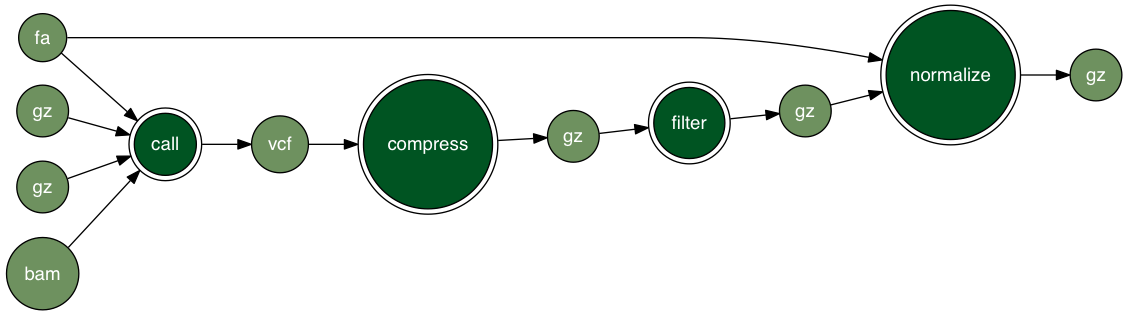
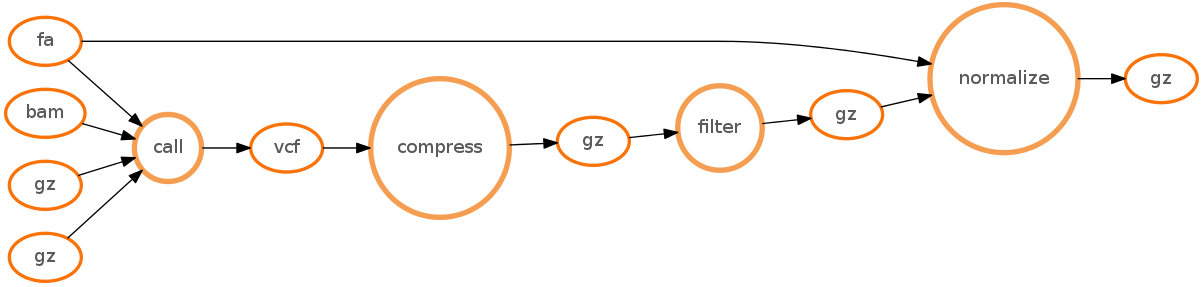
Updated to the redesign.

Changed region(s): [[0.0, 0.0, 1.0, 1.0]]

diff --git a/index.html b/index.html
@@ -5,62 +5,44 @@ group: "navigation"
 order: 1
 ---
 
-<div style="margin: 0px auto; margin-top: 40px; width:1050px; ">
-        <div style="font-size:32px;text-align:left;margin: 10px 0px 30px 0px; float:left; width:455px">          
-          <div style="color:#005422;">
-            
-            A bioinformatics tool and pipeline launcher
-          </div>
-          <div class="description" style="margin-top: 10px;font-size:16px; color:#6e915f">gkno opens the world of complex bioinformatic analysis to people of all level of computational expertise
-          </div>
-        </div>
-        <div style="float:right">
-          <video id="MY_VIDEO_1" class="video-js vjs-default-skin " style="margin: 0 auto;width:554px;" controls
-            preload="auto" width="554" height="312" poster="public/images/animation_still_white_bg_small.png"
-            data-setup="{}">
-            <source src="https://s3.amazonaws.com/iobio/iobio-01-v1.mp4" type='video/mp4'>
-            <p class="vjs-no-js">To view this video please enable JavaScript, and consider upgrading to a web browser that <a href="http://videojs.com/html5-video-support/" target="_blank">supports HTML5 video</a></p>
-          </video>
-        </div>
-        
-        <div style="text-align:center;width: 450px; float:left">
-          <div style="margin-top:40px; ">
-            
-            <link href="http://cdn-images.mailchimp.com/embedcode/classic-081711.css" rel="stylesheet" type="text/css">
-            <style type="text/css">
-              #mc_embed_signup{background:#fff; clear:left; font:14px Helvetica,Arial,sans-serif; }
-            
-            </style>
-            <div id="mc_embed_signup">
-            <form action="http://iobio.us9.list-manage.com/subscribe/post?u=ddbe7be3d1ca18356bf5c0404&amp;id=ace369fbec" method="post" id="mc-embedded-subscribe-form" name="mc-embedded-subscribe-form" class="validate" target="_blank" novalidate style="padding: 0px">
-                <div id="mc_embed_signup_scroll">
-              <div style="font-size: 14px; color: rgb(110,110,110);margin-bottom: 4px">
-                
-              </div>
-            <div class="mc-field-group" style="width:100%; margin:0px">
-              <label for="mce-EMAIL" style="color:rgb(150,150,150">Sign up to hear about new apps and when you can build your own </label>
-              <input type="email" value="" name="EMAIL" class="required email" id="mce-EMAIL">
-            </div>
-              <div id="mce-responses" class="clear">
-                <div class="response" id="mce-error-response" style="display:none"></div>
-                <div class="response" id="mce-success-response" style="display:none"></div>
-              </div>    
-                <div style="position: absolute; left: -5000px;">
-                  <input type="text" name="b_ddbe7be3d1ca18356bf5c0404_ace369fbec" tabindex="-1" value=""></div>
-                  <div class="clear" style=""><input type="submit" value="Subscribe" name="subscribe" id="mc-embedded-subscribe" class="button" style="background: #b70e11"></div>
-                </div>
-            </form>
-            </div>
-            <script type='text/javascript' src='http://s3.amazonaws.com/downloads.mailchimp.com/js/mc-validate.js'></script><script type='text/javascript'>(function($) {window.fnames = new Array(); window.ftypes = new Array();fnames[0]='EMAIL';ftypes[0]='email';fnames[1]='FNAME';ftypes[1]='text';fnames[2]='LNAME';ftypes[2]='text';}(jQuery));var $mcj = jQuery.noConflict(true);</script>
-            
-          </div>
-        </div>
-        <div style="clear:both"></div>
+<!-- Describe what gkno is.-->
+<div class='section'>
+  <div class='section-title'>A bioinformatics pipeline launcher</div>
+  <div class='description' style="font-size:16px">
+    gkno opens the world of complex bioinformatic analysis to people of all level of computational expertise. This site contains documentation, tutorials and information
+    on all the tools that comprise gkno.
+  </div>
+</div>
+
+<!-- Provide a link for downloading gkno -->
+<div class="section">
+  <div class='section-title' style="font-size:44px; color:#6e915f"><a href="/install.html">Get gkno</a></div>
+  <div class='description' style="text-align:center; font-size:16px">
+    Learn how to download, install and maintain gkno and get data resources.
+  </div>
+</div>
+
+<!-- Give an example describing variant calling and visualisation -->
+<div class="section">
+  <div class='description' style="font-size:24px; color:#6e915f;">Example: Call and visualize variants</div>
+  <div class='description'>
+    Use the gkno freebayes pipeline to call and filter variants. Easily parallelize calling over multiple regions and generate
+a compressed and indexed vcf file. The <a href="http://iobio.io">iobio</a> project allows visualization and real-time analysis
+of large data sets. Having generated variant calls for your sample, use <a href="http://vcf.iobio.io">vcf.iobio</a> to view
+global summary statistics.
+  </div>
+  <ul id="apps">
+    <li>
+      <div class='app'>
+        <div class='app-title'><a href="/pipelines.html#freebayes">gkno freebayes variant calling pipeline</a></div></br>
+        <a href="/pipelines.html#freebayes"><img src="public/images/pipelines/freebayes.png" style="width:450px; height:100px;"></img></a>
       </div>
-                  
-      <div class="divider" ></div>
-      <div class='section'>
-        <div class='section-title'>Try It</div>
-        
-      </div>                     
-    </div>  
+    </li>
+    <li>
+      <div class='app'>
+        <div class='app-title'><a href="http://vcf.iobio.io">vcf.iobio: real-time variant visualization</a></div>
+        <a href="http://vcf.iobio.io"><img src="public/images/vcf.iobio_wide.png" style="width:450px; height:300px;"></img></a>
+      </div>
+    </li>
+  </ul>
+</div>

diff --git a/install.html b/install.html
@@ -1,0 +1,36 @@
+---
+layout: page
+permalink: install.html
+---
+
+<!-- -->
+<div class='section'>
+  <div class='section-title'>How to get gkno</div>
+  <div class='description' style="font-size:18px;">
+    Downloading and installing gkno is a very simple process, requiring only a few commands. To begin with, get the code using the following command:
+  </div>
+
+  <div class="highlight" style="text-align:left;"><pre><code class="language-js" data-lang="js">
+    <span class="c1">git clone https://github.com/gkno/gkno_launcher.git</span></pre></code>
+  </div>
+
+  <div class='description' style="font-size:18px;">
+    Running this command will download all of the gkno code and link in all of the tools that are part of gkno, but not actually download or compile
+the individual tools. To do this and make gkno operational, type the following command (this step will take a little while!):
+  </div>
+  <div class="highlight" style="text-align:left;"><pre><code class="language-js" data-lang="js">
+    <span class="c1">
+      cd gkno_launcher
+      ./gkno build
+    </span></pre></code>
+  </div>
+
+  <div class='description' style="font-size:18px;">
+    gkno should now be completely operational. If there were any problems, please see the troubleshooting section at the end of these instructions.
+    <div class='divider'></div>
+    <br/>To test gkno, any of the pipelines can be executed using the test parameter set. For example, type:
+    <div class="highlight" style="text-align:left; font-size:18px;"><pre><code class="language-js" data-lang="js">
+      <span class="c1">./gkno freebayes -ps test</span></pre></code>
+    </div>
+  </div>
+</div>

diff --git a/software.html b/software.html
@@ -6,36 +6,8 @@ group: "navigation"
 order: 4
 ---
 
-<style>
-	#software .name { font-size: 26px; color:rgb(80,80,80);}
-	#software .link { font-size: 26px; color:rgb(180,180,180);}	
-	#software .tool { margin-bottom: 20px;}
-</style>
-
 <div class='section'>
-	<div class='section-title'>Software</div>        
-	<div class="description">
-	  ADD TEXT HERE
-	</div>
-</div>
-
-<div class='section'>
-	<div class='section-title'>Marthlab Software</div>        
-	<div class="description">
-	  ADD TEXT HERE
-	</div>
-</div>
-
-<div class='section' id='software'>
-	<div class='section-title'>Tools</div>        
-	<div class="description">
-	  <div class='tool'>
-	  	<div><span class='name'>Name</span> : <span class='link'>http://linktosoftware.org</span></div>
-	  	<div class="tool-description">Add tool description here</div>
-	  </div>
-	  <div class='tool'>
-	  	<div><span class='name'>Name</span> : <span class='link'>http://linktosoftware.org</span></div>
-	  	<div class="tool-description">Add tool description here</div>
-	  </div>
-	</div>
+  <div class='section-title'>Coming Soon</div>
+  <div class="description">             
+  </div>
 </div>

diff --git a/public/css/site.css b/public/css/site.css
@@ -28,6 +28,7 @@ body {
   min-height: 100%;  
 }
 a { color:rgb(110,110,110); text-decoration: underline;}
+b { color:rgb(110,110,110); text-decoration: none;}
 
 
 /*
@@ -128,14 +129,17 @@ a { color:rgb(110,110,110); text-decoration: underline;}
   padding-bottom: 173px
 }
 
+.highlight pre {padding:0px;}
 
 /*
  * Section
  *
  */
-.section { text-align: center; padding: 30px 0px 50px 0px;}
+.section {text-align: center; padding: 30px 0px 50px 0px;}
 .section-title { font-size: 45px;}
 .description { font-size: 14px; text-align:justify; margin-top:5px;}
+.section a { color:#005422; text-decoration: none;}
+.section a:hover { color:#6e915f; text-decoration: underline;}
 
 .section #apps {margin: 0; margin-top: 20px; padding: 0; list-style-type: none; text-align: center; margin-left:-40px;}
 .section #apps li {display: inline; padding-left: 80px;}

diff --git a/blog.html b/blog.html
@@ -6,8 +6,8 @@ group: "navigation"
 order: 5
 ---
 
-
-{% for post in site.posts %}  
-    <h3><a href="{{ post.url }}">{{ post.title }}</a></h3>
-    <p><small><strong>{{ post.date | date: "%B %e, %Y" }}</strong> . {{ post.category }} . <a href="http://erjjones.github.com{{ post.url }}#disqus_thread"></a></small></p>        
-{% endfor %}
+<div class='section'>
+  <div class='section-title'>Coming Soon</div>
+  <div class="description">             
+  </div>
+</div>

diff --git a/how-to.html b/how-to.html
@@ -7,7 +7,7 @@ order: 3
 ---
 
 <div class='section'>
-	<div class='section-title'>Coming Soon</div>        
-	<div class="description">	  
-	</div>
+  <div class='section-title'>Coming Soon</div>        
+  <div class="description">	  
+  </div>
 </div>
